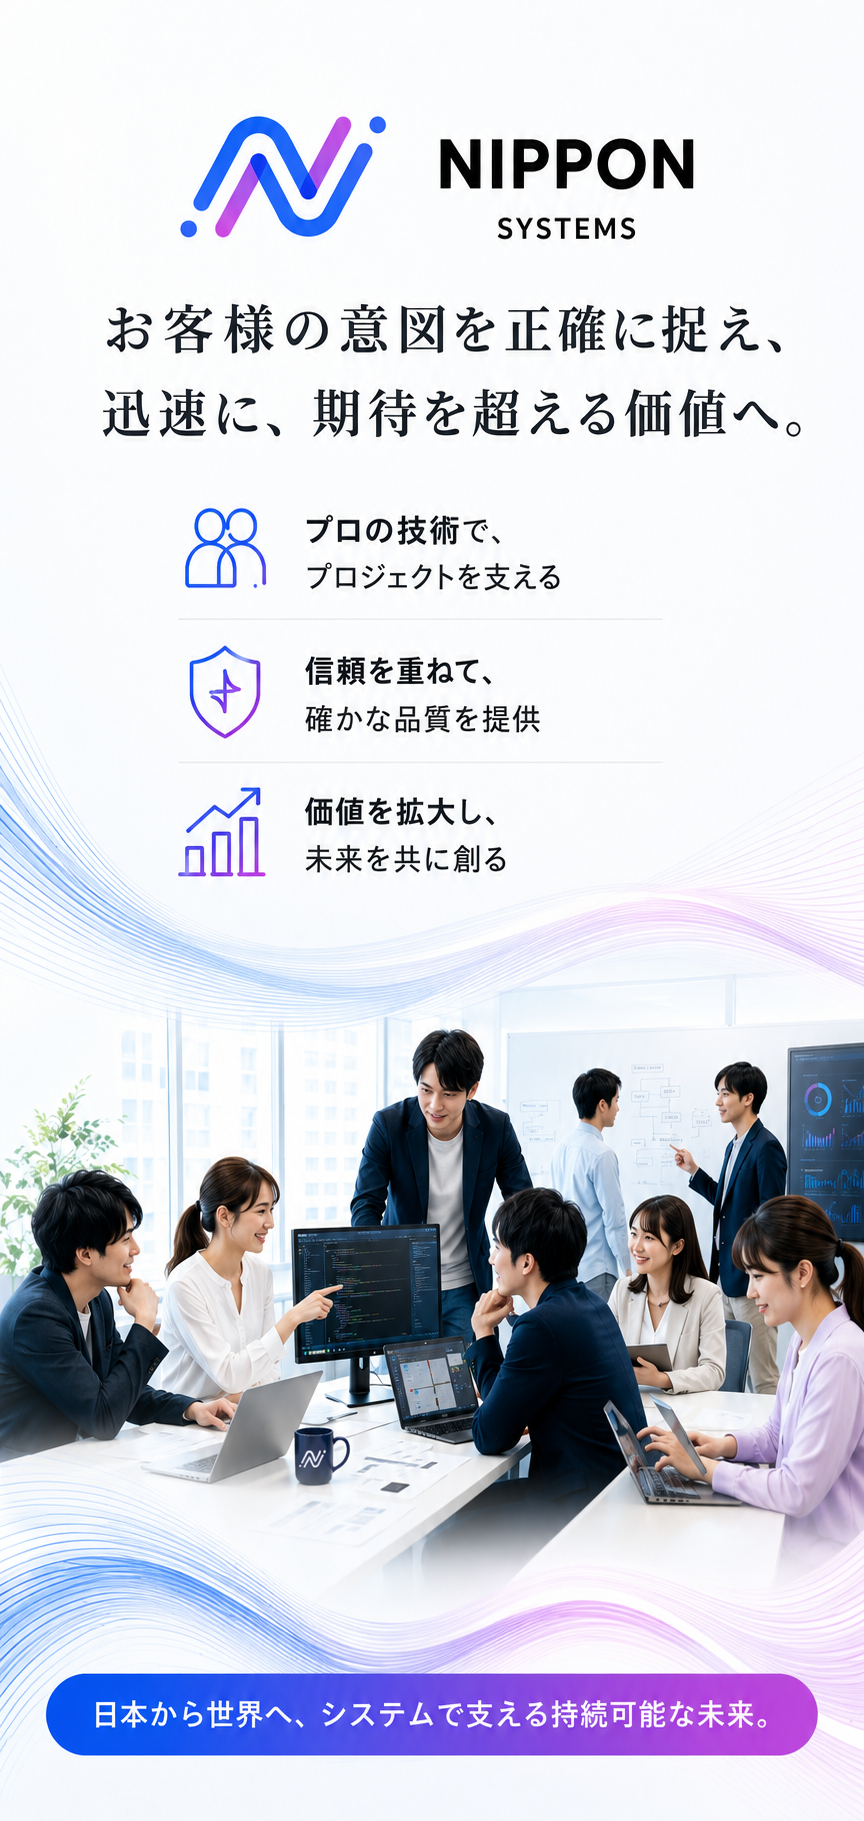
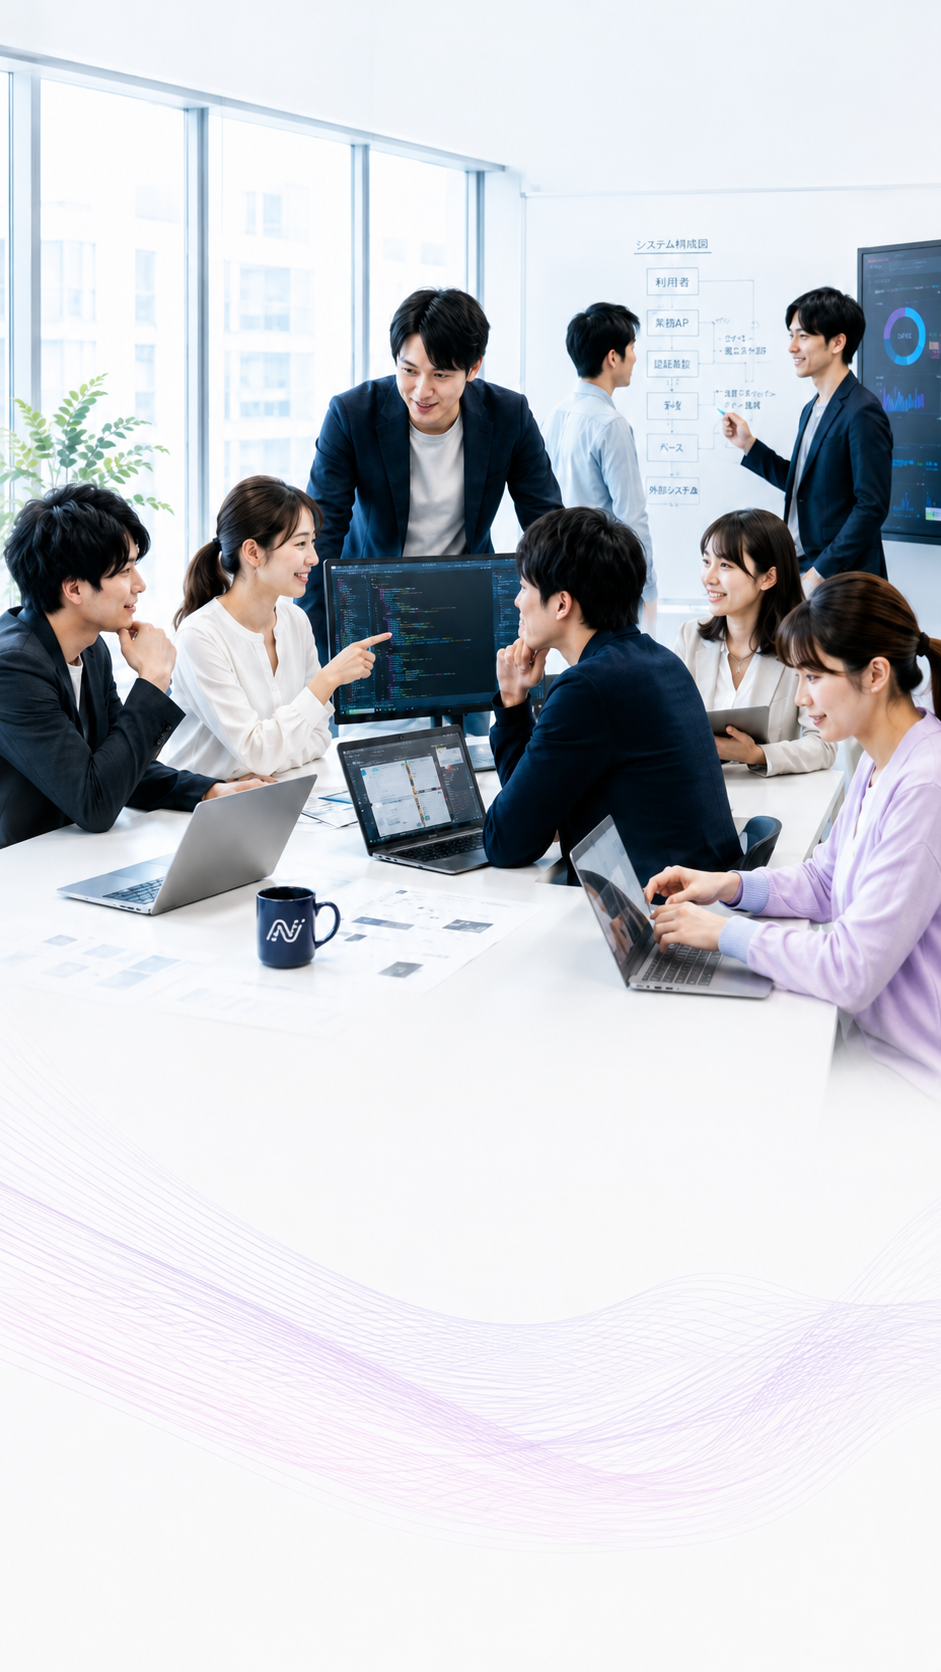
feat:responsive is reset

diff --git a/src/index.css b/src/index.css
@@ -1156,20 +1156,23 @@
     outline-offset: 3px;
   }
 
-  /* Mobile portrait: tall crop, focus on center of image */
+  /* ── Hero background ── */
+
+  /* All mobile (portrait & landscape): cover fills the section, no gaps ever */
   .hero-home-bg {
     background-color: var(--color-navy-950);
     background-image: url('/images/hero-bg-mobile.png');
     background-repeat: no-repeat;
-    background-size: cover;
-    background-position: center center;
     background-attachment: scroll;
+    background-size: cover;
+    /* anchor upper-center so faces/content stay visible on tall narrow phones */
+    background-position: center 20%;
   }
 
-  /* Mobile landscape */
-  @media (min-width: 480px) and (max-width: 767px) {
+  /* Landscape phones — shift focal point to center */
+  @media (max-width: 767px) and (orientation: landscape) {
     .hero-home-bg {
-      background-position: center 30%;
+      background-position: center center;
     }
   }
 
@@ -1204,19 +1207,18 @@
     inset: 0;
     z-index: 0;
     pointer-events: none;
-    /* Mobile: top-to-bottom fade so text stays legible over the image */
+    /* Mobile: top-heavy dark fade so text stays legible */
     background: linear-gradient(
       to bottom,
-      rgb(20 31 40 / 0.80) 0%,
-      rgb(20 31 40 / 0.55) 35%,
-      rgb(20 31 40 / 0.30) 60%,
-      rgb(20 31 40 / 0.20) 100%
+      rgb(20 31 40 / 0.82) 0%,
+      rgb(20 31 40 / 0.58) 35%,
+      rgb(20 31 40 / 0.32) 60%,
+      rgb(20 31 40 / 0.22) 100%
     );
   }
 
   @media (min-width: 768px) {
     .hero-home-bg::before {
-      /* Tablet+: left-to-right fade — text left, image right */
       background: linear-gradient(
         to right,
         rgb(20 31 40 / 0.85) 0%,

diff --git a/src/pages/HomePage.tsx b/src/pages/HomePage.tsx
@@ -37,7 +37,7 @@ export function HomePage() {
     <>
       <section
         ref={heroRef}
-        className="hero-home-bg page-section relative min-h-[100dvh] w-full overflow-hidden bg-navy-950 pt-24 pb-[min(42vw,14rem)] text-white md:min-h-screen md:pb-20"
+        className="hero-home-bg page-section relative min-h-[100dvh] w-full overflow-hidden bg-navy-950 pt-24 pb-16 text-white md:min-h-screen md:pb-20"
       >
         <MovingLinesBg />
         <div className="absolute -top-20 -right-20 h-80 w-80 rounded-full bg-coral-500/20 blur-3xl" data-hero="bg" />
@@ -48,7 +48,7 @@ export function HomePage() {
             {dict.home.heroEyebrow}
           </p>
           <h1
-            className="mt-4 max-w-4xl text-2xl font-bold leading-snug font-serif md:text-4xl md:leading-snug lg:text-5xl lg:leading-snug xl:text-6xl xl:leading-tight"
+            className="mt-4 max-w-4xl text-2xl font-bold leading-snug font-serif md:text-4xl md:leading-snug lg:text-4xl lg:leading-snug xl:text-5xl xl:leading-tight"
             data-hero="line"
           >
             <HeroTitleAnimation text={dict.home.heroTitle1} />
